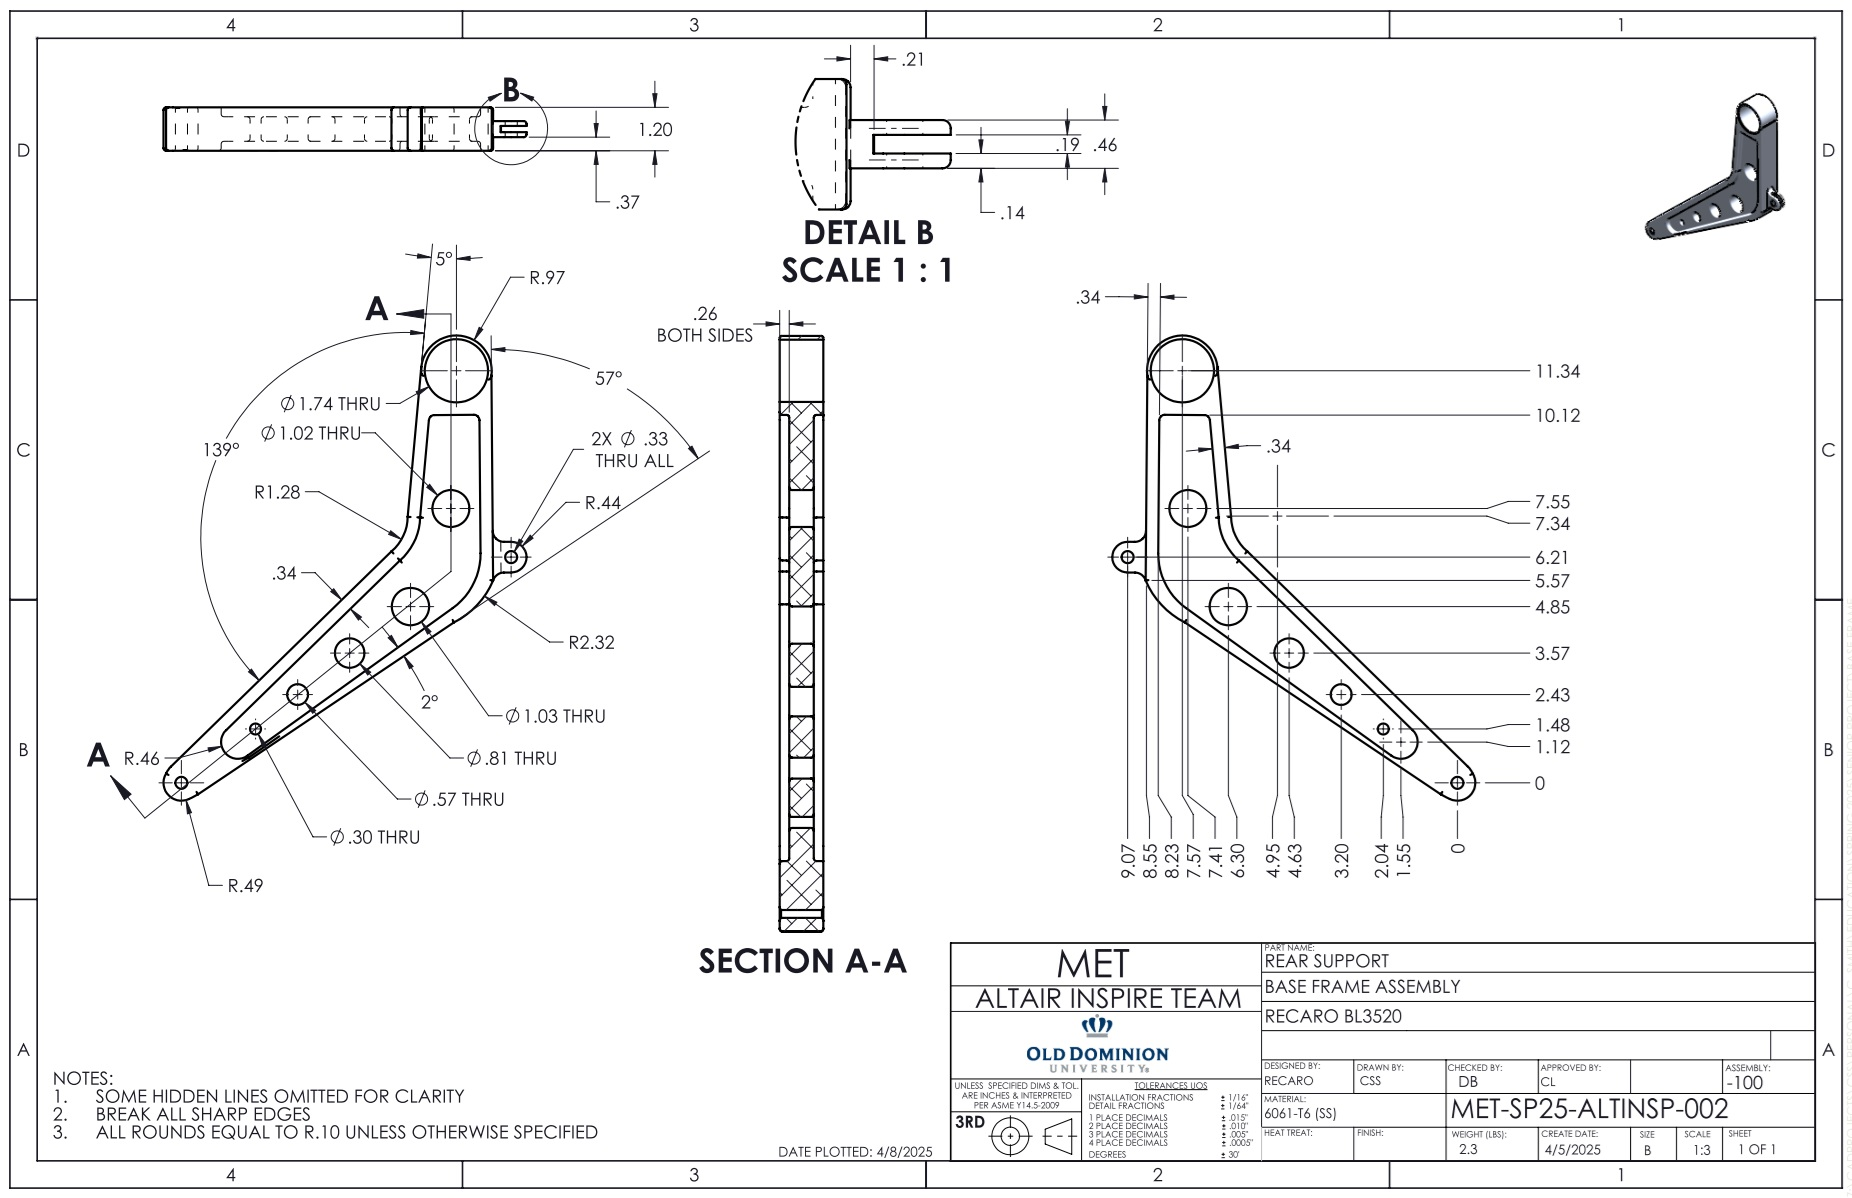
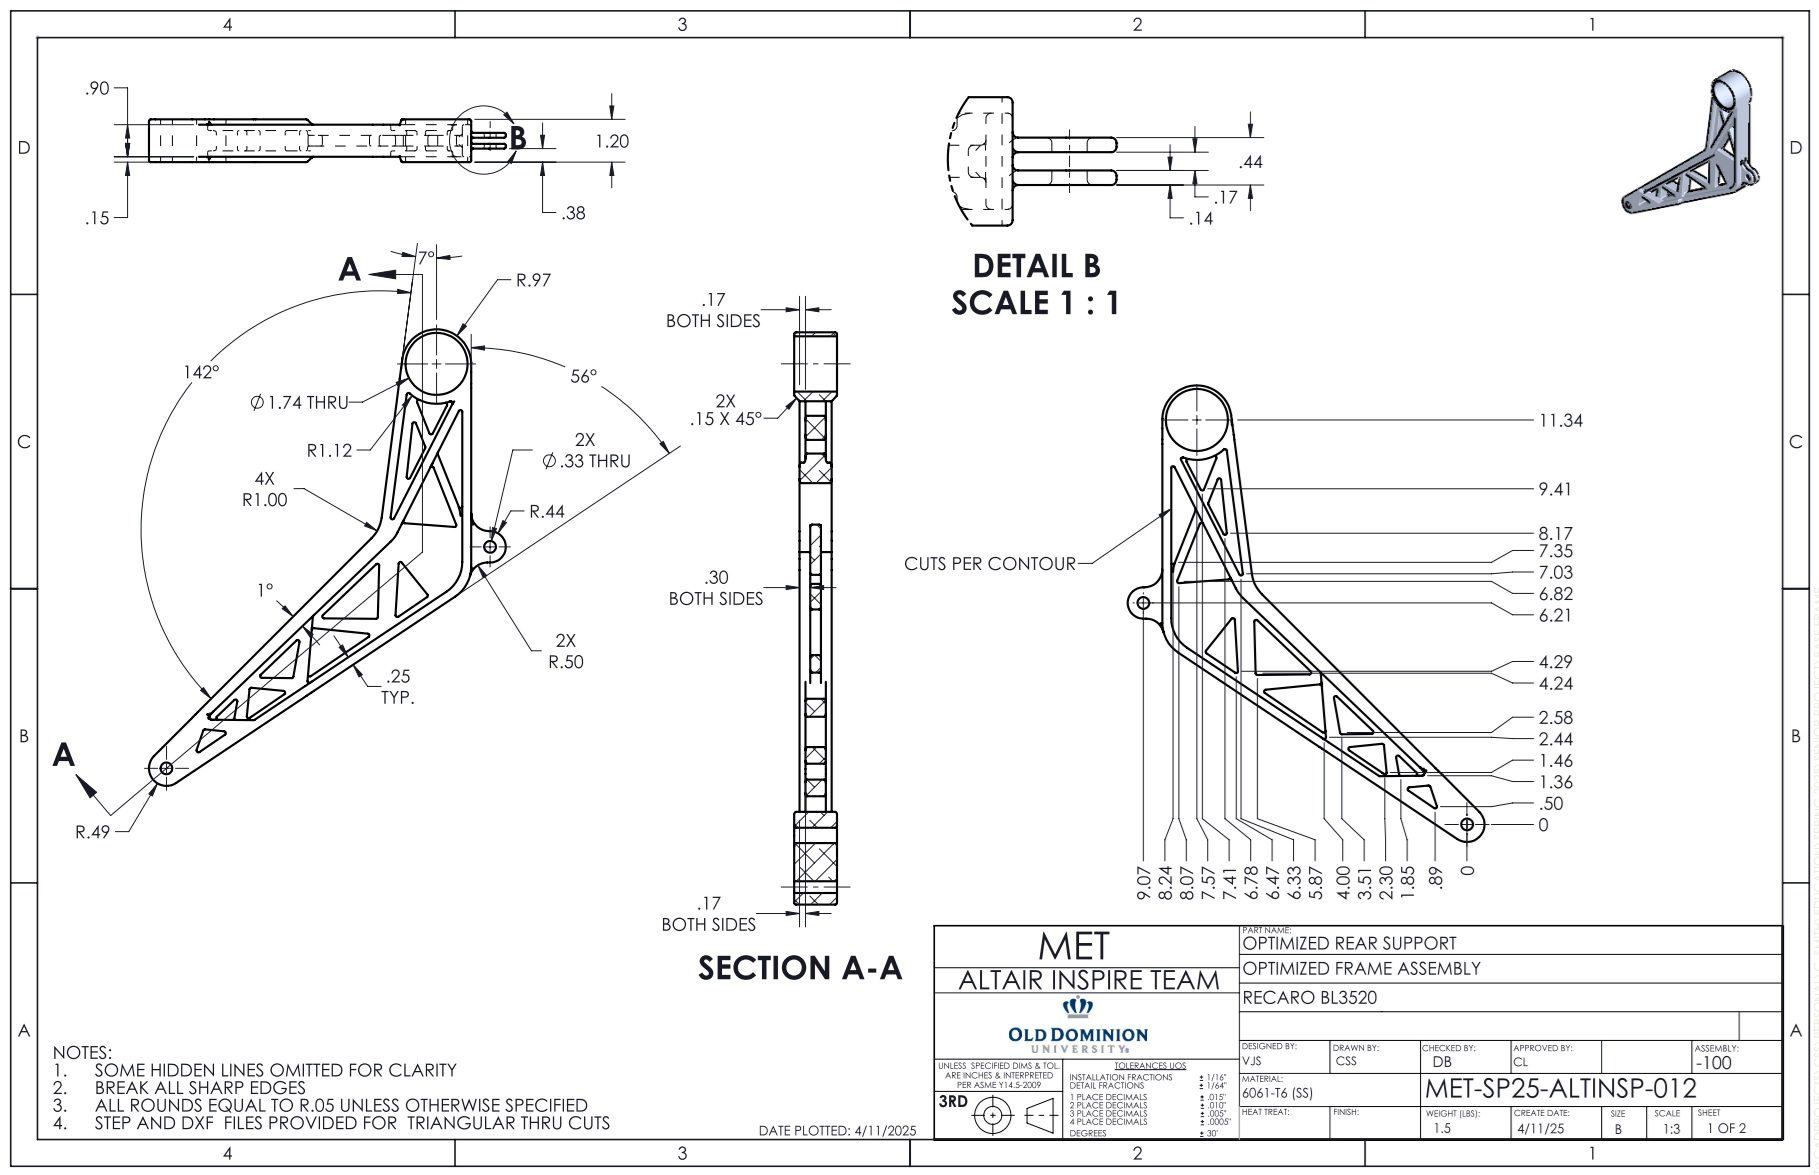
Updated images and text

diff --git a/index.html b/index.html
@@ -152,6 +152,7 @@
                                 <li><i class="bi bi-check-circle-fill text-success me-2"></i>Weight reduction</li>
                                 <li><i class="bi bi-check-circle-fill text-success me-2"></i>Structural integrity</li>
                                 <li><i class="bi bi-check-circle-fill text-success me-2"></i>Safety compliance</li>
+                                <li><i class="bi bi-check-circle-fill text-success me-2"></i>Manufacturability</li>
                                 <li><i class="bi bi-check-circle-fill text-success me-2"></i>Cost efficiency</li>
                             </ul>
                         </div>
@@ -248,26 +249,20 @@
                         </div>
                     </div>
                     <div class="carousel-item">
-                        <img src="images/ISO_Optimized_Component.png" class="d-block w-100" alt="Final optimized seat design">
+                        <img src="images/Front Leg Evolution.png" class="d-block w-100" alt="Final optimized seat design">
                         <div class="carousel-caption d-none d-md-block">
-                            <h5>Optimized Design</h5>
-                            <p>Refined design incorporating optimization results.</p>
+                            <h5>Front Leg Evolution</h5>
+                            <p>Evolution of the front leg design</p>
                         </div>
                     </div>
                     <div class="carousel-item">
-                        <img src="images/03.png" class="d-block w-100" alt="Final optimized seat design">
+                        <img src="images/Rear Leg Evolution.png" class="d-block w-100" alt="Final optimized seat design">
                         <div class="carousel-caption d-none d-md-block">
-                            <h5>Refined Design</h5>
-                            <p>Refined design with machining in mind</p>
+                            <h5>Rear Leg Evolution</h5>
+                            <p>Evolution of the rear leg design</p>
                         </div>
                     </div>
-                    <div class="carousel-item">
-                        <img src="images/Front_support_progression.png" class="d-block w-100" alt="Design iteration">
-                        <div class="carousel-caption d-none d-md-block">
-                            <h5>Front support design progression</h5>
-                            <p>This clearly shows the design progression for the front support</p>
-                        </div>
-                    </div>
+                    
                     <div class="carousel-item">
                         <img src="images/Loading.png" class="d-block w-100" alt="Load Case Simulation">
                         <div class="carousel-caption d-none d-md-block">
@@ -275,6 +270,31 @@
                             <p>Simulation of the load cases in Altair Inspire</p>
                         </div>
                     </div>
+
+                    <div class="carousel-item">
+                        <img src="images/Optimized Frame_01.png" class="d-block w-100" alt="Load Case Simulation">
+                        <div class="carousel-caption d-none d-md-block">
+                            <h5>Optimized Frame</h5>
+                            <p>Optimized frame design render</p>
+                        </div>
+                    </div>
+
+                    <div class="carousel-item">
+                        <img src="images/Optimized_02.png" class="d-block w-100" alt="Load Case Simulation">
+                        <div class="carousel-caption d-none d-md-block">
+                            <h5>Optimized Design</h5>
+                            <p>Refined design Render</p>
+                        </div>
+                    </div>
+
+                    <div class="carousel-item">
+                        <img src="images/Old vs New.png" class="d-block w-100" alt="Load Case Simulation">
+                        <div class="carousel-caption d-none d-md-block">
+                            <h5>Old vs New</h5>
+                            <p>Comparison of the old and new designs</p>
+                        </div>
+                    </div>
+
                 </div>
                 <button class="carousel-control-prev" type="button" data-bs-target="#galleryCarousel1" data-bs-slide="prev">
                     <span class="carousel-control-prev-icon" aria-hidden="true"></span>
